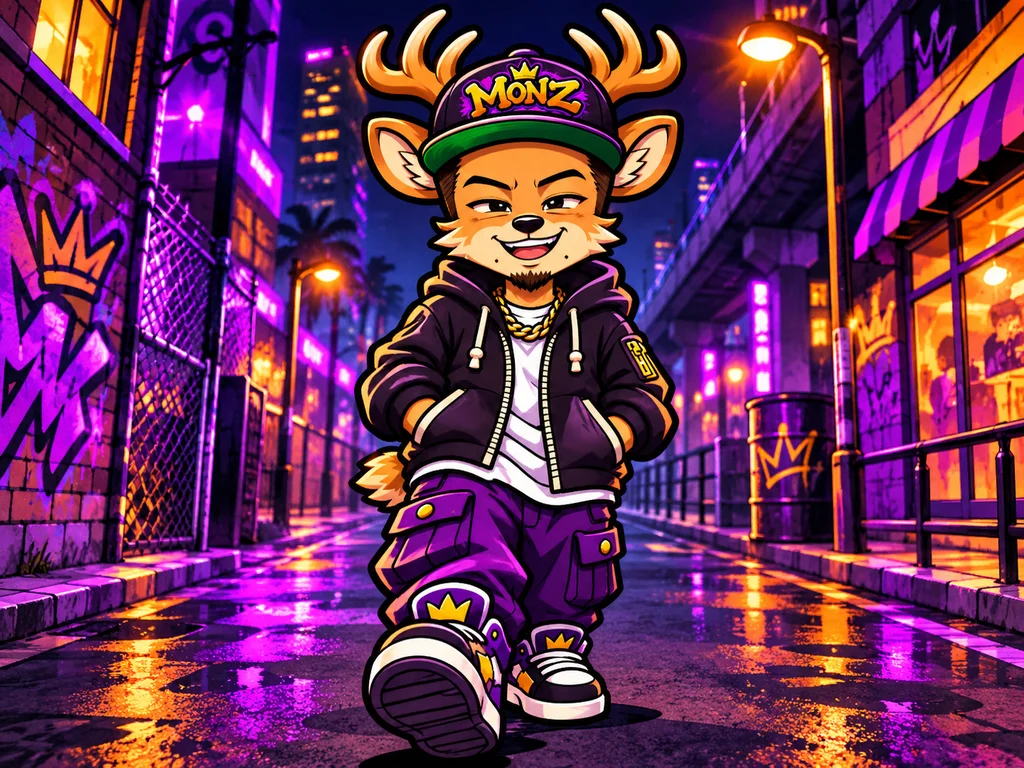
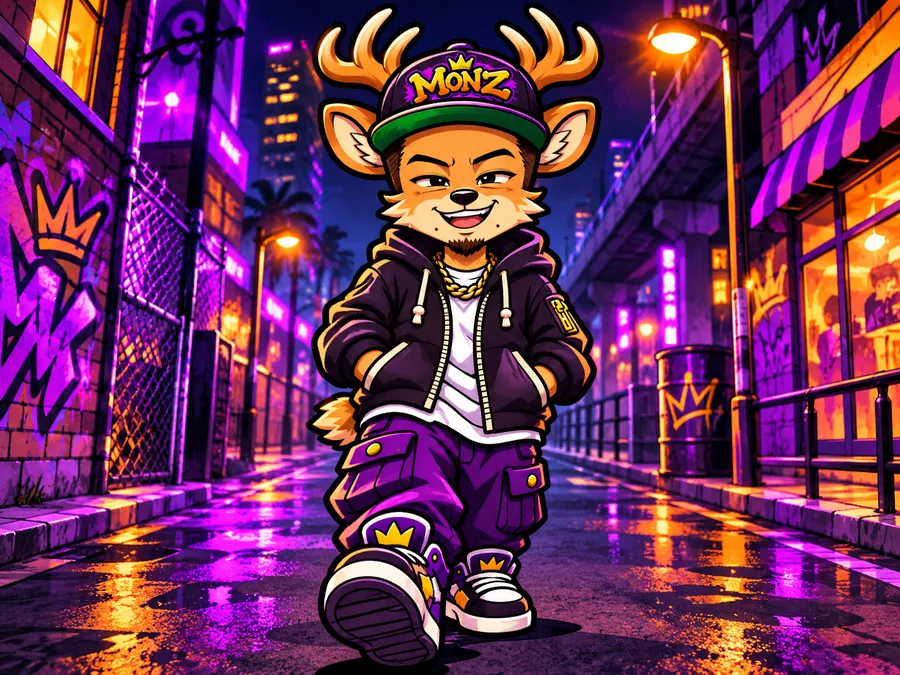
確認用ページにリーチの1枚絵も入れる・1枚絵を軽く
Claude-Session: https://claude.ai/code/session_01MXithgTc5umkveoyZShZHQ

diff --git a/tools/build_preview.py b/tools/build_preview.py
@@ -59,7 +59,7 @@ elif MYTH:
     paths = myth_paths + card_paths
 elif SLOT:
     # 2026-11-10 企画者の 図柄の 絵
-    paths = sorted(os.path.relpath(f, pub) for f in glob.glob(pub + 'assets/slot/*.webp'))
+    paths = sorted(os.path.relpath(f, pub) for f in glob.glob(pub + 'assets/slot/**/*.webp', recursive=True))
 elif MJ:
     paths = sorted(os.path.relpath(f, pub) for f in glob.glob(pub + 'assets/mahjong/*.webp'))
     # 左右の キャラ(勇者 ZIPP・ボス RIOT・子分 SNEK／GRIT【仮】)

diff --git a/docs/SLOT.md b/docs/SLOT.md
@@ -242,6 +242,6 @@
 
 ## キャラの リーチの 足し方（2026-11-11〜）
 - `src/scenes/SlotScene.ts` の `STORY_REACHES` に 1人 足す（絵・題・3枚の 文字・当たり/ハズレの 文字）＋ `src/core/slot/reach.ts` の `BIG_REACHES` に 強さを 足す。
-- 1枚絵が 届いたら：元の 絵を `design/slot/reach/<id>_<名前>.png` に、横 1024 に 小さく した webp を `public/assets/slot/reach/<id>_<名前>.webp` に 置き、`STORY_REACHES` の `art` に 名前を 足す（名前: 1・2・3・2-1〜2-3（種類ごとの 2枚目）・win・lose）。
+- 1枚絵が 届いたら：元の 絵を `design/slot/reach/<id>_<名前>.png` に、横 900 に 小さく した webp(品質 80。確認用ページを 15MB より 小さく する ため) を `public/assets/slot/reach/<id>_<名前>.webp` に 置き、`STORY_REACHES` の `art` に 名前を 足す（名前: 1・2・3・2-1〜2-3（種類ごとの 2枚目）・win・lose）。
 - 絵が ある 1枚は 液晶 いっぱいに 出し、文字は 上と 下の 黒い 帯に 1行で 出す（キャラに かぶらない）。
 - 届いた 絵（企画者 2026-11-12〜）：キョンK 1枚目（K-1）。
